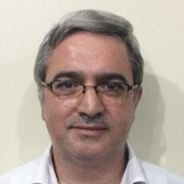
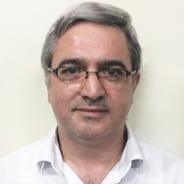
resizing the expertise images

diff --git a/app/views/home/index.blade.php b/app/views/home/index.blade.php
@@ -212,7 +212,7 @@
 
 				<div class="col-sm-3">
 	                <div class="team-member">
-	                    <img src="/images/team/farid.jpg" class="img-responsive img-circle" alt="Farid Abi Aad | Mechanical engineer with 30 years of experience" title="Farid Abi Aad | Mechanical engineer with 30 years of experience">
+	                    <img src="/images/team/farid.jpg?v=2.0" class="img-responsive img-circle" alt="Farid Abi Aad | Mechanical engineer with 30 years of experience" title="Farid Abi Aad | Mechanical engineer with 30 years of experience">
 	                    <h3>Farid Abi Aad</h3>
 	                    <h4 class="text-muted">Mechanical engineer with 30 years of experience</h4>
 	                </div>
@@ -237,6 +237,15 @@
            </div>
 
            <div class="row">
+	           
+	           <div class="col-sm-3">
+	                <div class="team-member">
+	                    <img src="/images/team/bassam.jpg" class="img-responsive img-circle" alt="Bassam Hammoud | Engineer" title="Bassam Hammoud | Engineer">
+	                    <h3>Bassam Hammoud</h3>
+	                    <h4>Engineer</h4> 
+	                </div>
+	           </div>
+
 	           <div class="col-sm-3">
 	                <div class="team-member">
 	                    <img src="/images/team/corine.jpg" class="img-responsive img-circle" alt="Corine Chadaideh | Accounting department" title="Corine Chadaideh | Accounting department">
@@ -245,7 +254,6 @@
 	                </div>
 	            </div>
 
-
 	            <div class="col-sm-3">
 	                <div class="team-member">
 	                    <img src="/images/team/reem.jpg" class="img-responsive img-circle" alt="Reem Bou Matar | Operations manager collection" title="Reem Bou Matar | Operations manager collection">
@@ -253,14 +261,7 @@
 	                    <h4>Operations manager collection</h4> 
 	                </div>
 	           </div>
-
-	           <div class="col-sm-3">
-	                <div class="team-member">
-	                    <img src="/images/team/bassam.jpg" class="img-responsive img-circle" alt="Bassam Hammoud | Engineer" title="Bassam Hammoud | Engineer">
-	                    <h3>Bassam Hammoud</h3>
-	                    <h4>Engineer</h4> 
-	                </div>
-	           </div>
+ 
            </div>
 	</div>
 </div>

diff --git a/app/views/expertise/index.blade.php b/app/views/expertise/index.blade.php
@@ -23,7 +23,7 @@
 
 				<div class="col-sm-3">
 	                <div class="team-member">
-	                    <img src="/images/team/farid.jpg" class="img-responsive img-circle" alt="Farid Abi Aad | Mechanical engineer with 30 years of experience" title="Farid Abi Aad | Mechanical engineer with 30 years of experience">
+	                    <img src="/images/team/farid.jpg?v=2.0" class="img-responsive img-circle" alt="Farid Abi Aad | Mechanical engineer with 30 years of experience" title="Farid Abi Aad | Mechanical engineer with 30 years of experience">
 	                    <h3>Farid Abi Aad</h3>
 	                    <h4 class="text-muted">Mechanical engineer with 30 years of experience</h4>
 	                </div>
@@ -48,6 +48,14 @@
            </div>
 
            <div class="row">
+           	   <div class="col-sm-3">
+	                <div class="team-member">
+	                    <img src="/images/team/bassam.jpg" class="img-responsive img-circle" alt="Bassam Hammoud | Engineer" title="Bassam Hammoud | Engineer">
+	                    <h3>Bassam Hammoud</h3>
+	                    <h4>Engineer</h4> 
+	                </div>
+	           </div>
+
 	           <div class="col-sm-3">
 	                <div class="team-member">
 	                    <img src="/images/team/corine.jpg" class="img-responsive img-circle" alt="Corine Chadaideh | Accounting department" title="Corine Chadaideh | Accounting department">
@@ -62,14 +70,6 @@
 	                    <img src="/images/team/reem.jpg" class="img-responsive img-circle" alt="Reem Bou Matar | Operations manager collection" title="Reem Bou Matar | Operations manager collection">
 	                    <h3>Reem Bou Matar</h3>
 	                    <h4>Operations manager collection</h4> 
-	                </div>
-	           </div>
-
-	           <div class="col-sm-3">
-	                <div class="team-member">
-	                    <img src="/images/team/bassam.jpg" class="img-responsive img-circle" alt="Bassam Hammoud | Engineer" title="Bassam Hammoud | Engineer">
-	                    <h3>Bassam Hammoud</h3>
-	                    <h4>Engineer</h4> 
 	                </div>
 	           </div>
            </div>
